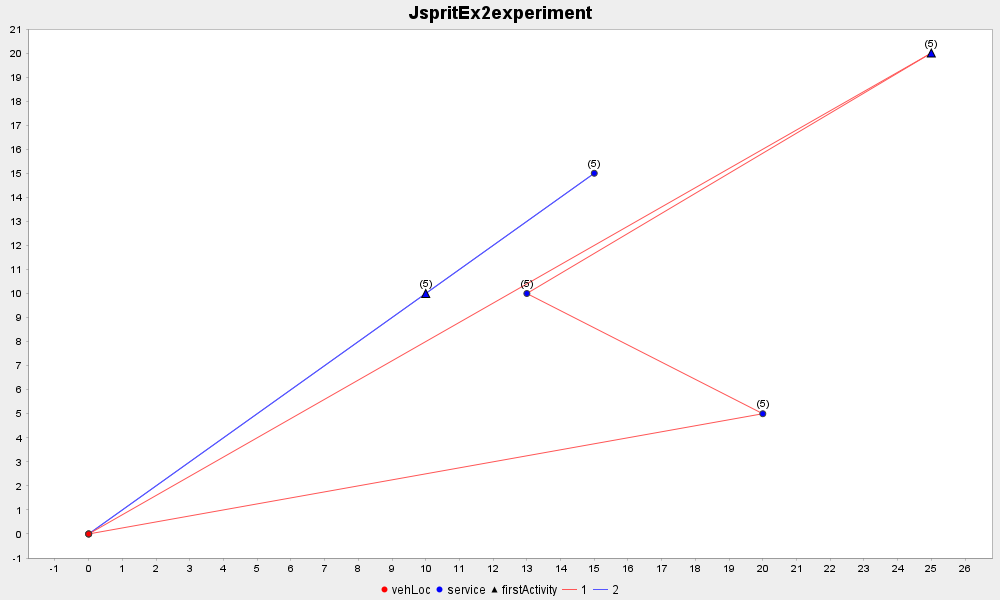
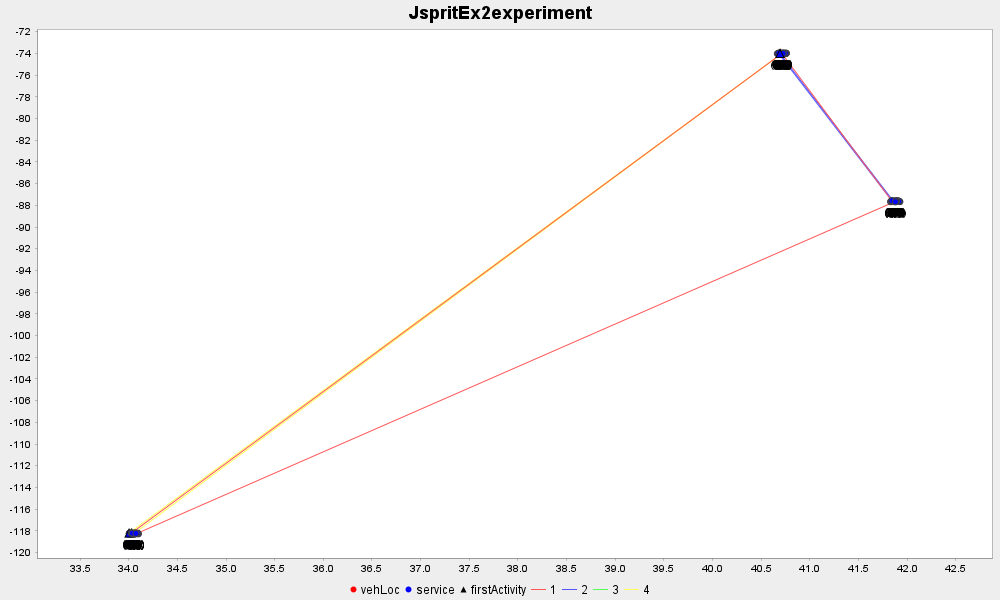
generated 100 random locations

diff --git a/src/main/java/org/example/multiple100locations.java b/src/main/java/org/example/multiple100locations.java
@@ -1,0 +1,178 @@
+
+
+package org.example;
+
+import com.graphhopper.jsprit.analysis.toolbox.Plotter;
+import com.graphhopper.jsprit.core.algorithm.VehicleRoutingAlgorithm;
+import com.graphhopper.jsprit.core.algorithm.box.Jsprit;
+import com.graphhopper.jsprit.core.problem.Location;
+import com.graphhopper.jsprit.core.problem.VehicleRoutingProblem;
+import com.graphhopper.jsprit.core.problem.job.Service;
+import com.graphhopper.jsprit.core.problem.solution.VehicleRoutingProblemSolution;
+import com.graphhopper.jsprit.core.problem.solution.route.VehicleRoute;
+import com.graphhopper.jsprit.core.problem.vehicle.Vehicle;
+import com.graphhopper.jsprit.core.problem.vehicle.VehicleImpl;
+import com.graphhopper.jsprit.core.problem.vehicle.VehicleType;
+import com.graphhopper.jsprit.core.problem.vehicle.VehicleTypeImpl;
+import com.graphhopper.jsprit.core.reporting.SolutionPrinter;
+import com.graphhopper.jsprit.core.util.Coordinate;
+import com.graphhopper.jsprit.core.util.Solutions;
+import com.graphhopper.jsprit.core.util.VehicleRoutingTransportCostsMatrix;
+
+import java.util.ArrayList;
+import java.util.Collection;
+import java.util.List;
+import java.util.Random;
+
+public class multiple100locations {
+    // Earth radius in kilometers (for Haversine distance)
+    public static final double EARTH_RADIUS = 6371;
+
+    public static void main(String[] args) {
+        // 1. Create a depot location.
+        // For consistency with our clusters, we choose a depot in New York.
+        Location depot = Location.Builder.newInstance()
+                .setId("depot")
+                .setCoordinate(Coordinate.newInstance(40.7128, -74.0060))
+                .build();
+
+        // 2. Generate 100 service locations spread across three clusters:
+        //    - New York (34 locations), Los Angeles (33 locations), Chicago (33 locations).
+        List<Location> serviceLocations = new ArrayList<>();
+        Random rand = new Random(42);
+
+        // New York cluster: center around (40.7128, -74.0060)
+        for (int i = 0; i < 34; i++) {
+            double lat = 40.7128 + (rand.nextDouble() - 0.5) * 0.1; // variation ±0.05°
+            double lon = -74.0060 + (rand.nextDouble() - 0.5) * 0.1;
+            String id = "loc" + (i + 1);
+            Location loc = Location.Builder.newInstance()
+                    .setId(id)
+                    .setCoordinate(Coordinate.newInstance(lat, lon))
+                    .build();
+            serviceLocations.add(loc);
+        }
+        // Los Angeles cluster: center around (34.0522, -118.2437)
+        for (int i = 34; i < 67; i++) {
+            double lat = 34.0522 + (rand.nextDouble() - 0.5) * 0.1;
+            double lon = -118.2437 + (rand.nextDouble() - 0.5) * 0.1;
+            String id = "loc" + (i + 1);
+            Location loc = Location.Builder.newInstance()
+                    .setId(id)
+                    .setCoordinate(Coordinate.newInstance(lat, lon))
+                    .build();
+            serviceLocations.add(loc);
+        }
+        // Chicago cluster: center around (41.8781, -87.6298)
+        for (int i = 67; i < 100; i++) {
+            double lat = 41.8781 + (rand.nextDouble() - 0.5) * 0.1;
+            double lon = -87.6298 + (rand.nextDouble() - 0.5) * 0.1;
+            String id = "loc" + (i + 1);
+            Location loc = Location.Builder.newInstance()
+                    .setId(id)
+                    .setCoordinate(Coordinate.newInstance(lat, lon))
+                    .build();
+            serviceLocations.add(loc);
+        }
+
+        // 3. Create service jobs for each location with a fixed demand (e.g., 5).
+        List<Service> services = new ArrayList<>();
+        for (Location loc : serviceLocations) {
+            Service service = Service.Builder.newInstance("service_" + loc.getId())
+                    .setLocation(loc)
+                    .addSizeDimension(0, 2)
+                    .build();
+            services.add(service);
+        }
+
+        // 4. Create a vehicle type (with a capacity sufficient for multiple jobs).
+        VehicleType vehicleType = VehicleTypeImpl.Builder.newInstance("truck")
+                .addCapacityDimension(0, 50)
+                .build();
+
+        // 5. Create several vehicles that start at the depot.
+        List<Vehicle> vehicles = new ArrayList<>();
+        vehicles.add(VehicleImpl.Builder.newInstance("v1")
+                .setStartLocation(depot)
+                .setType(vehicleType)
+                .build());
+        vehicles.add(VehicleImpl.Builder.newInstance("ve2")
+                .setStartLocation(depot)
+                .setType(vehicleType)
+                .build());
+        vehicles.add(VehicleImpl.Builder.newInstance("veh3")
+                .setStartLocation(depot)
+                .setType(vehicleType)
+                .build());
+        vehicles.add(VehicleImpl.Builder.newInstance("vehi4")
+                .setStartLocation(depot)
+                .setType(vehicleType)
+                .build());
+        vehicles.add(VehicleImpl.Builder.newInstance("vehicle5")
+                .setStartLocation(depot)
+                .setType(vehicleType)
+                .build());
+
+        // 6. Build a distance (cost) matrix that includes the depot and all service locations.
+        // Create a list of all nodes (depot + services)
+        List<Location> allLocations = new ArrayList<>();
+        allLocations.add(depot);
+        allLocations.addAll(serviceLocations);
+
+        VehicleRoutingTransportCostsMatrix.Builder matrixBuilder =
+                VehicleRoutingTransportCostsMatrix.Builder.newInstance(true);
+        for (Location from : allLocations) {
+            for (Location to : allLocations) {
+                double distance = haversine(
+                        from.getCoordinate().getY(), from.getCoordinate().getX(),
+                        to.getCoordinate().getY(), to.getCoordinate().getX()
+                );
+                matrixBuilder.addTransportDistance(from.getId(), to.getId(), distance);
+            }
+        }
+
+        // 7. Build the vehicle routing problem by adding vehicles, jobs, and the cost matrix.
+        VehicleRoutingProblem.Builder vrpBuilder = VehicleRoutingProblem.Builder.newInstance();
+        for (Vehicle v : vehicles) {
+            vrpBuilder.addVehicle(v);
+        }
+        for (Service s : services) {
+            vrpBuilder.addJob(s);
+        }
+        vrpBuilder.setRoutingCost(matrixBuilder.build());
+
+        VehicleRoutingProblem problem = vrpBuilder.build();
+
+        // 8. Solve the problem using Jsprit's algorithm.
+        VehicleRoutingAlgorithm algorithm = Jsprit.createAlgorithm(problem);
+        Collection<VehicleRoutingProblemSolution> solutions = algorithm.searchSolutions();
+        System.out.println("All possible solutions: " + solutions);
+
+        // Print the best solution to the console.
+        System.out.println("The best solution:");
+        VehicleRoutingProblemSolution bestSolution = Solutions.bestOf(solutions);
+        SolutionPrinter.print(bestSolution);
+
+        // Plot the solution.
+        new Plotter(problem, bestSolution).plot("outputGraph.png", "JspritEx2experiment");
+        // CustomPlotter.displaySolution(bestSolution); // Uncomment if you have CustomPlotter available.
+        CustomPlotter.displaySolution(bestSolution);
+        System.out.println("Number of routes: " + bestSolution.getRoutes().size());
+        for (VehicleRoute route : bestSolution.getRoutes()) {
+            System.out.println("Route for " + route.getVehicle().getId() + " has " + route.getActivities().size() + " stops.");
+        }
+
+
+    }
+
+    // Haversine formula to compute the distance (in kilometers) between two latitude/longitude pairs.
+    public static double haversine(double lat1, double lon1, double lat2, double lon2) {
+        double dLat = Math.toRadians(lat2 - lat1);
+        double dLon = Math.toRadians(lon2 - lon1);
+        double a = Math.sin(dLat / 2) * Math.sin(dLat / 2) +
+                Math.cos(Math.toRadians(lat1)) * Math.cos(Math.toRadians(lat2)) *
+                        Math.sin(dLon / 2) * Math.sin(dLon / 2);
+        double c = 2 * Math.atan2(Math.sqrt(a), Math.sqrt(1 - a));
+        return EARTH_RADIUS * c;
+    }
+}

diff --git a/src/main/java/org/example/CustomPlotterinital.java b/src/main/java/org/example/CustomPlotterinital.java
@@ -14,39 +14,31 @@ import org.jfree.chart.plot.XYPlot;
 import org.jfree.data.xy.XYSeries;
 import org.jfree.data.xy.XYSeriesCollection;
 
-import javax.swing.JFrame;
-import java.awt.Color;
-import java.awt.Font;
+import javax.swing.*;
+import java.awt.*;
 import java.util.Collection;
 
-public class CustomPlotter {
+public class CustomPlotterinital {
 
-    /**
-     * Displays the VRP solution in a window using an XY line chart.
-     * Each vehicle's route is plotted as a separate colored series,
-     * and each location is annotated with its ID.
-     *
-     * @param solution the VRP solution to be visualized.
-     */
     public static void displaySolution(VehicleRoutingProblemSolution solution) {
         // Prepare a dataset where each series corresponds to one vehicle's route.
         XYSeriesCollection dataset = new XYSeriesCollection();
-        // Define an array of colors to differentiate routes.
-        Color[] colors = {Color.RED, Color.BLUE, Color.GREEN, Color.MAGENTA, Color.ORANGE, Color.CYAN, Color.PINK, Color.YELLOW};
+        // Define a set of colors to differentiate vehicles.
+        Color[] colors = {Color.RED, Color.BLUE, Color.GREEN, Color.MAGENTA, Color.ORANGE};
 
         // Iterate over all routes in the solution.
         Collection<VehicleRoute> routes = solution.getRoutes();
         int routeIndex = 0;
         for (VehicleRoute route : routes) {
             String seriesKey = route.getVehicle().getId() + "_" + routeIndex;
-            // Create a series for the route.
+            // Create a series named with the vehicle's ID.
             XYSeries series = new XYSeries(seriesKey);
 
-            // Add the start (depot) location.
+            // Add the start location.
             Location startLoc = route.getStart().getLocation();
             series.add(startLoc.getCoordinate().getX(), startLoc.getCoordinate().getY());
 
-            // Add each activity location (service stops).
+            // Add each activity's location.
             for (TourActivity activity : route.getActivities()) {
                 Location loc = activity.getLocation();
                 series.add(loc.getCoordinate().getX(), loc.getCoordinate().getY());
@@ -56,59 +48,55 @@ public class CustomPlotter {
             Location endLoc = route.getEnd().getLocation();
             series.add(endLoc.getCoordinate().getX(), endLoc.getCoordinate().getY());
 
-            // Add this series to the dataset.
             dataset.addSeries(series);
             routeIndex++;
         }
 
         // Create an XY line chart.
         JFreeChart chart = ChartFactory.createXYLineChart(
-                "Vehicle Routing Solution",   // Chart title
-                "X",                          // X-Axis label
-                "Y",                          // Y-Axis label
-                dataset,                      // Dataset
-                PlotOrientation.VERTICAL,     // Plot orientation
-                true,                         // Include legend
-                true,                         // Tooltips
-                false                         // URLs
+                "Vehicle Routing Solution",  // Chart title
+                "X",                         // X-Axis Label
+                "Y",                         // Y-Axis Label
+                dataset,                     // Dataset
+                PlotOrientation.VERTICAL,    // Orientation
+                true,                        // Legend
+                true,                        // Tooltips
+                false                        // URLs
         );
 
-        // Customize the plot by setting different colors for each series.
+        // Customize the plot: assign different colors to each vehicle route.
         XYPlot plot = chart.getXYPlot();
         for (int i = 0; i < dataset.getSeriesCount(); i++) {
             plot.getRenderer().setSeriesPaint(i, colors[i % colors.length]);
         }
 
-        // Add annotations (location IDs) for every point.
+        // Add annotations for each location with its ID.
         for (VehicleRoute route : routes) {
             // Annotate the start location.
-            addAnnotation(plot, route.getStart().getLocation());
+            Location startLoc = route.getStart().getLocation();
+            addAnnotation(plot, startLoc);
 
-            // Annotate each service activity's location.
+            // Annotate each activity's location.
             for (TourActivity activity : route.getActivities()) {
                 addAnnotation(plot, activity.getLocation());
             }
 
             // Annotate the end location.
-            addAnnotation(plot, route.getEnd().getLocation());
+            Location endLoc = route.getEnd().getLocation();
+            addAnnotation(plot, endLoc);
         }
 
-        // Create a chart panel and a frame to display the chart.
+        // Create and show the chart in a JFrame.
         ChartPanel panel = new ChartPanel(chart);
         JFrame frame = new JFrame("Custom Vehicle Routing Plot");
         frame.setDefaultCloseOperation(JFrame.EXIT_ON_CLOSE);
         frame.add(panel);
         frame.pack();
-        frame.setLocationRelativeTo(null); // center on screen
+        frame.setLocationRelativeTo(null);
         frame.setVisible(true);
     }
 
-    /**
-     * Adds an annotation to the plot at the given location.
-     *
-     * @param plot the XYPlot where the annotation will be added.
-     * @param loc  the location whose ID and coordinates will be annotated.
-     */
+    // Helper method to add an annotation at a location's coordinate.
     private static void addAnnotation(XYPlot plot, Location loc) {
         Coordinate coord = loc.getCoordinate();
         XYTextAnnotation annotation = new XYTextAnnotation(loc.getId(), coord.getX(), coord.getY());
@@ -116,4 +104,8 @@ public class CustomPlotter {
         annotation.setPaint(Color.BLACK);
         plot.addAnnotation(annotation);
     }
+
+    // For testing, you can call this method from your main method after obtaining the solution:
+
 }
+
